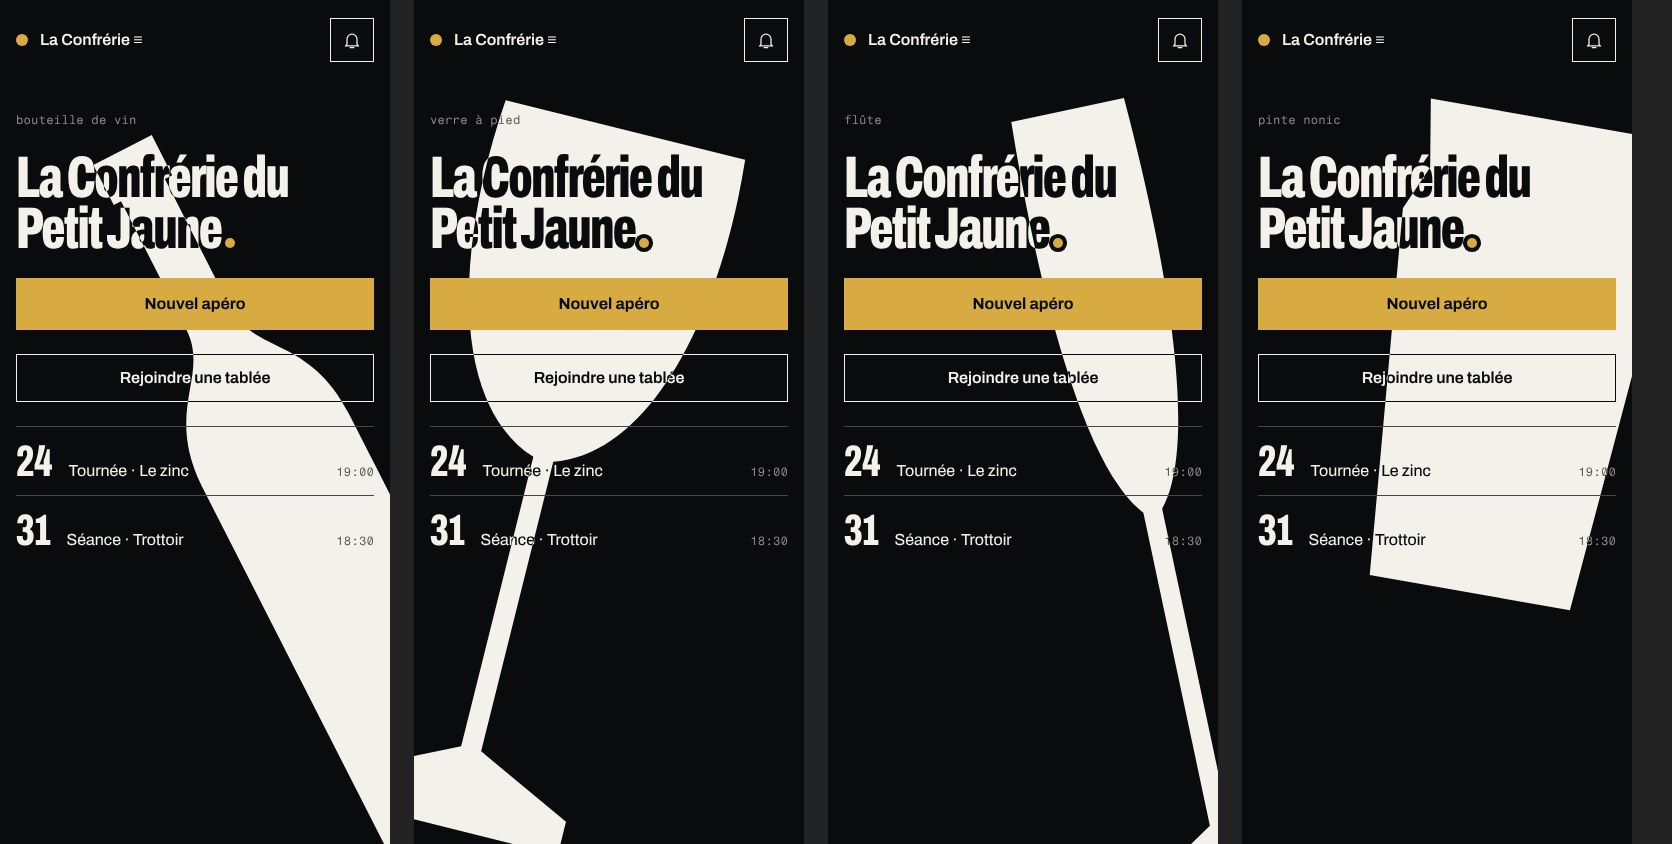
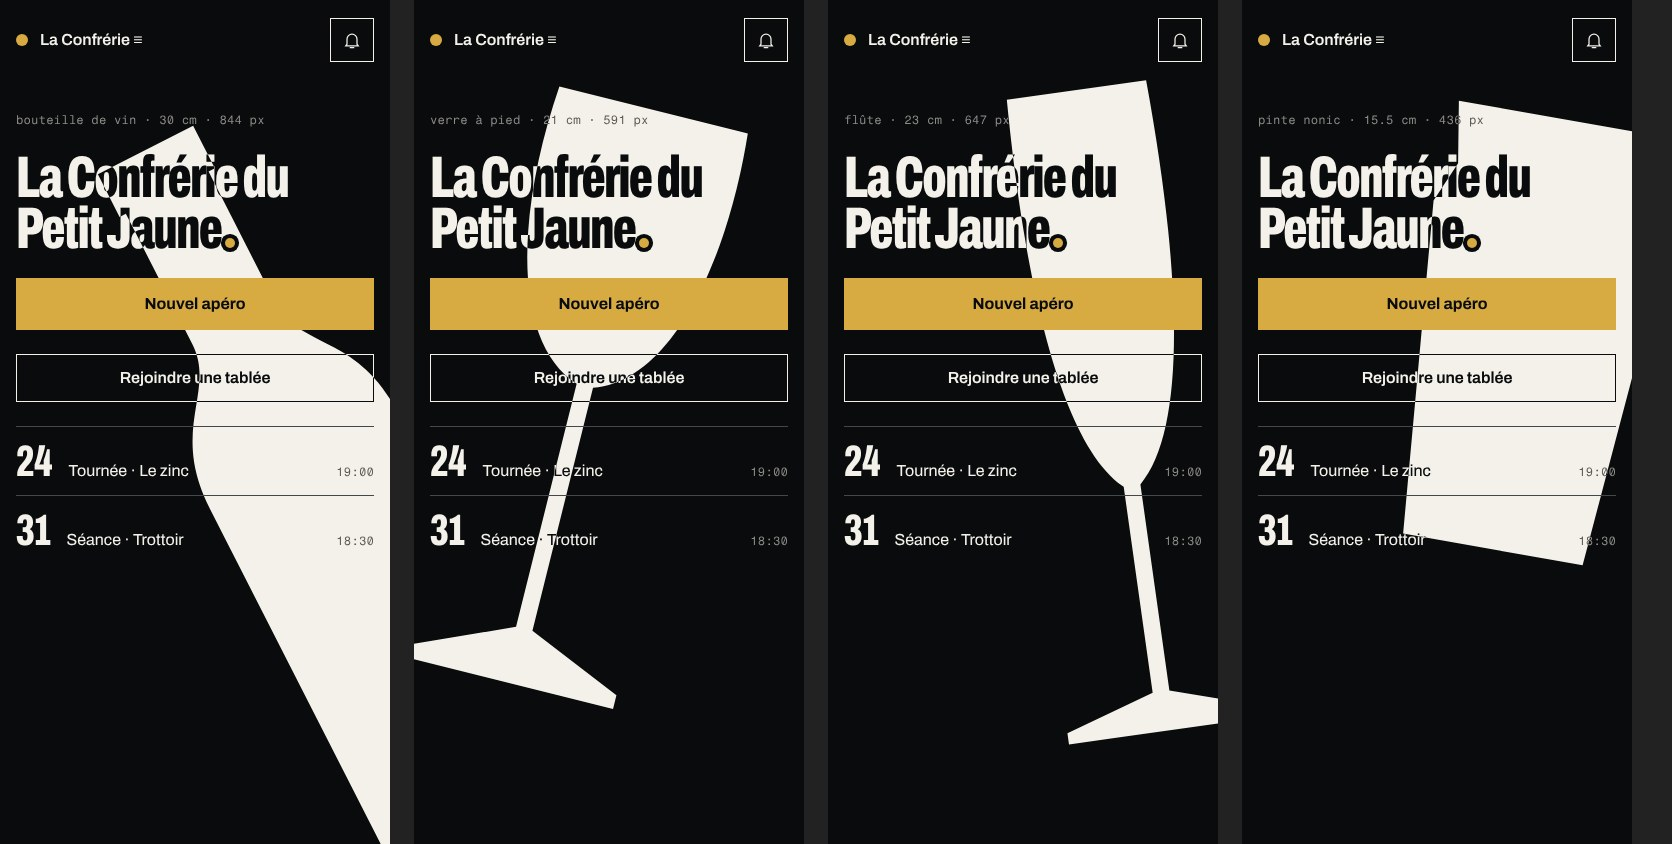
docs(uxer): Verrerie à l'échelle commune, proportions réelles
Décision du propriétaire : si la bouteille fait la taille de l'écran, tout
est à la même échelle.
- Contrat §17.5 : échelle commune (bouteille 30 cm = hauteur du premier
  écran ; verre 70 %, flûte 77 %, nonic 52 %), jamais de taille ajustée ;
  borne de surface réduite à un maximum.
- Design system §10.2 : dimensions réelles en mm, tracés en viewBox mm,
  facteur unique --verrerie-mm = 100svh / 300.
- Spécimen redessiné en mm réels et recapturé ; surfaces 14 à 24 %.

Claude-Session: https://claude.ai/code/session_01KgmnA1cUffiCGSArbcKDDk

diff --git a/docs/uxer/manifesto-void/specimens/verrerie.html b/docs/uxer/manifesto-void/specimens/verrerie.html
@@ -43,27 +43,27 @@ body{background:#222;padding:24px;display:flex;flex-direction:column;gap:24px}
 .screens{display:flex;gap:24px;flex-wrap:wrap}
 </style>
 <body>
-<div class="screens"><div class="screen"><div class="verrerie"><svg viewBox="0 0 100 400" style="height:820px;left:20px;top:150px;transform:rotate(-27deg);transform-origin:50% 0" aria-hidden="true"><path d="M10 400 L10 165 C10 122 38 118 38 92 L38 22 L34 22 L34 0 L66 0 L66 22 L62 22 L62 92 C62 118 90 122 90 165 L90 400 Z"/></svg></div>
+<div class="screens"><div class="screen"><div class="verrerie"><svg viewBox="0 0 75 300" style="height:844px;left:40px;top:150px;transform:rotate(-27deg);transform-origin:50% 0" aria-hidden="true"><path d="M0 300 L0 124 C0 92 21 88 21 69 L21 17 L18.5 17 L18.5 0 L56.5 0 L56.5 17 L54 17 L54 69 C54 88 75 92 75 124 L75 300 Z"/></svg></div>
 <div class="top"><div class="dot"></div><div class="brand inv">La Confrérie ≡</div><div class="bell inv"><svg width="20" height="20" viewBox="0 0 24 24" fill="none" stroke="currentColor" stroke-width="1.5" stroke-linecap="square"><path d="M6 17V11a6 6 0 0 1 12 0v6l1.5 2h-15z M10 21h4"/></svg></div></div>
-<div class="hero"><p class="eyebrow inv t3" style="margin:0">bouteille de vin</p>
+<div class="hero"><p class="eyebrow inv t3" style="margin:0">bouteille de vin · 30 cm · 844 px</p>
 <h1 class="h1"><span class="inv">La Confrérie du Petit Jaune</span><span class="pop"></span></h1>
 <div class="btn">Nouvel apéro</div><div class="ghost inv">Rejoindre une tablée</div></div>
 <div class="rows"><div class="row"><b class="inv">24</b><span class="inv">Tournée · Le zinc</span><span class="eyebrow inv t3" style="margin-left:auto">19:00</span></div>
-<div class="row"><b class="inv">31</b><span class="inv">Séance · Trottoir</span><span class="eyebrow inv t3" style="margin-left:auto">18:30</span></div></div></div><div class="screen"><div class="verrerie"><svg viewBox="0 0 100 210" style="height:720px;left:40px;top:130px;transform:rotate(14deg);transform-origin:50% 0" aria-hidden="true"><path d="M14 0 L86 0 C90 46 80 90 53 99 L53 186 L82 200 L82 210 L18 210 L18 200 L47 186 L47 99 C20 90 10 46 14 0 Z"/></svg></div>
+<div class="row"><b class="inv">31</b><span class="inv">Séance · Trottoir</span><span class="eyebrow inv t3" style="margin-left:auto">18:30</span></div></div></div><div class="screen"><div class="verrerie"><svg viewBox="0 0 85 210" style="height:591px;left:120px;top:110px;transform:rotate(14deg);transform-origin:50% 0" aria-hidden="true"><path d="M8 0 L77 0 C81 46 72 92 45.5 101 L45.5 190 L80 205 L80 210 L5 210 L5 205 L39.5 190 L39.5 101 C13 92 4 46 8 0 Z"/></svg></div>
 <div class="top"><div class="dot"></div><div class="brand inv">La Confrérie ≡</div><div class="bell inv"><svg width="20" height="20" viewBox="0 0 24 24" fill="none" stroke="currentColor" stroke-width="1.5" stroke-linecap="square"><path d="M6 17V11a6 6 0 0 1 12 0v6l1.5 2h-15z M10 21h4"/></svg></div></div>
-<div class="hero"><p class="eyebrow inv t3" style="margin:0">verre à pied</p>
+<div class="hero"><p class="eyebrow inv t3" style="margin:0">verre à pied · 21 cm · 591 px</p>
 <h1 class="h1"><span class="inv">La Confrérie du Petit Jaune</span><span class="pop"></span></h1>
 <div class="btn">Nouvel apéro</div><div class="ghost inv">Rejoindre une tablée</div></div>
 <div class="rows"><div class="row"><b class="inv">24</b><span class="inv">Tournée · Le zinc</span><span class="eyebrow inv t3" style="margin-left:auto">19:00</span></div>
-<div class="row"><b class="inv">31</b><span class="inv">Séance · Trottoir</span><span class="eyebrow inv t3" style="margin-left:auto">18:30</span></div></div></div><div class="screen"><div class="verrerie"><svg viewBox="0 0 56 250" style="height:800px;left:150px;top:110px;transform:rotate(-12deg);transform-origin:50% 0" aria-hidden="true"><path d="M10 0 L46 0 C49 62 45 112 31 128 L31 228 L50 240 L50 250 L6 250 L6 240 L25 228 L25 128 C11 112 7 62 10 0 Z"/></svg></div>
+<div class="row"><b class="inv">31</b><span class="inv">Séance · Trottoir</span><span class="eyebrow inv t3" style="margin-left:auto">18:30</span></div></div></div><div class="screen"><div class="verrerie"><svg viewBox="-5 0 70 230" style="height:647px;left:150px;top:90px;transform:rotate(-8deg);transform-origin:50% 0" aria-hidden="true"><path d="M5 0 L55 0 C58 70 52 125 33 142 L33 216 L65 226 L65 230 L-5 230 L-5 226 L27 216 L27 142 C8 125 2 70 5 0 Z"/></svg></div>
 <div class="top"><div class="dot"></div><div class="brand inv">La Confrérie ≡</div><div class="bell inv"><svg width="20" height="20" viewBox="0 0 24 24" fill="none" stroke="currentColor" stroke-width="1.5" stroke-linecap="square"><path d="M6 17V11a6 6 0 0 1 12 0v6l1.5 2h-15z M10 21h4"/></svg></div></div>
-<div class="hero"><p class="eyebrow inv t3" style="margin:0">flûte</p>
+<div class="hero"><p class="eyebrow inv t3" style="margin:0">flûte · 23 cm · 647 px</p>
 <h1 class="h1"><span class="inv">La Confrérie du Petit Jaune</span><span class="pop"></span></h1>
 <div class="btn">Nouvel apéro</div><div class="ghost inv">Rejoindre une tablée</div></div>
 <div class="rows"><div class="row"><b class="inv">24</b><span class="inv">Tournée · Le zinc</span><span class="eyebrow inv t3" style="margin-left:auto">19:00</span></div>
-<div class="row"><b class="inv">31</b><span class="inv">Séance · Trottoir</span><span class="eyebrow inv t3" style="margin-left:auto">18:30</span></div></div></div><div class="screen"><div class="verrerie"><svg viewBox="0 0 100 170" style="height:480px;left:170px;top:120px;transform:rotate(10deg);transform-origin:50% 0" aria-hidden="true"><path d="M6 0 L94 0 L90 24 L97 40 L86 170 L14 170 L3 40 L10 24 Z"/></svg></div>
+<div class="row"><b class="inv">31</b><span class="inv">Séance · Trottoir</span><span class="eyebrow inv t3" style="margin-left:auto">18:30</span></div></div></div><div class="screen"><div class="verrerie"><svg viewBox="0 0 90 155" style="height:436px;left:200px;top:120px;transform:rotate(10deg);transform-origin:50% 0" aria-hidden="true"><path d="M5.4 0 L84.6 0 L81 22 L87.3 36.5 L77.4 155 L12.6 155 L2.7 36.5 L9 22 Z"/></svg></div>
 <div class="top"><div class="dot"></div><div class="brand inv">La Confrérie ≡</div><div class="bell inv"><svg width="20" height="20" viewBox="0 0 24 24" fill="none" stroke="currentColor" stroke-width="1.5" stroke-linecap="square"><path d="M6 17V11a6 6 0 0 1 12 0v6l1.5 2h-15z M10 21h4"/></svg></div></div>
-<div class="hero"><p class="eyebrow inv t3" style="margin:0">pinte nonic</p>
+<div class="hero"><p class="eyebrow inv t3" style="margin:0">pinte nonic · 15.5 cm · 436 px</p>
 <h1 class="h1"><span class="inv">La Confrérie du Petit Jaune</span><span class="pop"></span></h1>
 <div class="btn">Nouvel apéro</div><div class="ghost inv">Rejoindre une tablée</div></div>
 <div class="rows"><div class="row"><b class="inv">24</b><span class="inv">Tournée · Le zinc</span><span class="eyebrow inv t3" style="margin-left:auto">19:00</span></div>

diff --git a/docs/uxer/manifesto-void/UXER_REDESIGN_CONTRACT.md b/docs/uxer/manifesto-void/UXER_REDESIGN_CONTRACT.md
@@ -321,11 +321,16 @@ une réserve `--void`, si bien que l'anneau jaune reste à 9,2 : 1 partout.
 
 - **Nombre** : **une seule silhouette par écran**, jamais deux (décision du propriétaire, 19/10/2026).
   Un seul objet garde le vide dominant et donne une seule lecture : un écran, un verre.
-- **Surface** : 12 % à 35 % du premier écran mobile (390 × 844). En dessous, l'effet ne
-  se voit pas ; au-dessus, le vide cesse de dominer.
-- **Échelle** : la silhouette mesure au moins 80 % de la hauteur du premier écran
-  (bouteille, verre à pied, flûte) et au moins 55 % pour la nonic, trapue, qui dépasserait
-  sinon la borne de surface. Elle sort d'au moins un bord. Monumentale, jamais vignette.
+- **Surface** : au plus 35 % du premier écran mobile (390 × 844), sinon le vide cesse de
+  dominer. Pas de minimum : l'échelle commune prime, et une nonic à l'échelle couvre
+  moins qu'une bouteille. Mesuré sur spécimen : 14 à 24 %.
+- **Échelle commune** (décision du propriétaire, 19/10/2026) : toute la verrerie est à la
+  **même échelle**, dans ses proportions réelles. La bouteille de vin (30 cm) fait la
+  hauteur du premier écran ; un verre à pied (21 cm) en fait donc 70 %, une flûte (23 cm)
+  77 %, une pinte nonic (15,5 cm) 52 %. Une silhouette n'est jamais agrandie ni réduite
+  pour remplir un vide ou tenir une borne : on change sa position ou son angle, jamais
+  sa taille. Le rognage par le bord de l'écran ne change pas l'échelle. Dimensions de
+  référence : design system §10.2.
 - **Angle** : de −35° à +35° (exception : bouteille couchée des erreurs). Un bord qui
   traverse une ligne de texte fait au moins 15° avec la ligne de base : un bord presque
   horizontal couperait chaque lettre en deux moitiés.
@@ -372,7 +377,7 @@ compensation reste `VISUAL_UNVERIFIED`.
 | V11 | Contraste invariant (P10) | capture avec / sans Verrerie : diff hors silhouettes = 0 ; sous silhouette, pixels pleins des glyphes = `--void` |
 | V12 | Aucune teinte inversée (P9) | recherche de pixels hors palette (bleu, violet, bleu-vert) sur toutes les captures = 0 |
 | V13 | Focus intact sur silhouette | navigation clavier sur l'accueil : anneau jaune sur réserve noire à chaque arrêt |
-| V14 | Une silhouette par écran, reconnaissance (P12) et bornes (§17.5) | captures 320, 390, 768, 1440 inspectées ; surface couverte mesurée |
+| V14 | Une silhouette par écran, échelle commune, reconnaissance (P12) et bornes (§17.5) | captures 320, 390, 768, 1440 inspectées ; surface couverte mesurée |
 | V15 | Compensation optique | mesure d'encre (écart ≤ ±3 % à densité 3, ≤ ±5 % à densité 1) puis test à choix forcé §17.7 |
 | V16 | Coût | Verrerie en SVG inline ≤ 2 ko par écran ; aucune recomposition au défilement mesurée (`Performance` : pas de *paint* répété sur les calques inversés) |
 

diff --git a/docs/uxer/manifesto-void/UXER_DESIGN_SYSTEM.md b/docs/uxer/manifesto-void/UXER_DESIGN_SYSTEM.md
@@ -278,12 +278,18 @@ Présentation pure, `aria-hidden`, sans logique métier. Props : `composition`
 (identifiant public d'un apéro ou d'une tablée). Rendu : un `<svg>` inline par silhouette,
 `fill: var(--silhouette)`, aucun contour, `shape-rendering: geometricPrecision`.
 
-| Silhouette | Dessin (géométrique : segments et arcs, sans détail) | Partie caractéristique (P12) |
-|---|---|---|
-| Bouteille de vin | corps droit, épaule en arc, col étroit, bague | col et goulot |
-| Verre à pied | coupe en arc, jambe fine, pied plat | jambe et pied |
-| Flûte | coupe haute et étroite, jambe, pied | coupe étroite |
-| Pinte nonic | fût conique, renflement sous le buvant | renflement |
+| Silhouette | Dessin (géométrique : segments et arcs, sans détail) | Dimensions réelles (h × l) | Hauteur à l'échelle | Partie caractéristique (P12) |
+|---|---|---|---|---|
+| Bouteille de vin 75 cl | corps droit, épaule en arc, col étroit, bague | 300 × 75 mm | 100 % | col et goulot |
+| Verre à pied | coupe en arc, jambe fine, pied plat | 210 × 85 mm (pied 75) | 70 % | jambe et pied |
+| Flûte | coupe haute et étroite, jambe, pied | 230 × 60 mm (pied 70) | 77 % | coupe étroite |
+| Pinte nonic | fût conique, renflement sous le buvant | 155 × 90 mm | 52 % | renflement |
+
+**Échelle unique.** Les tracés sont dessinés en millimètres réels (`viewBox` en mm) et
+rendus avec un seul facteur : `--verrerie-mm: calc(100svh / 300)` (bouteille = hauteur du
+premier écran) ; la hauteur d'une silhouette vaut `calc(<hauteur en mm> * var(--verrerie-mm))`.
+Sur bureau, la même formule s'applique à la hauteur de la fenêtre. Aucune silhouette ne
+porte de taille propre : le tirage choisit l'objet, l'angle et l'ancre, jamais la taille.
 
 Dessins originaux, tracés dans `specimens/verrerie.html` (≈ 150 octets de tracé chacun).
 

diff --git a/.uxer/runs/verrerie/validation.md b/.uxer/runs/verrerie/validation.md
@@ -16,6 +16,8 @@
 - Défaut trouvé et corrigé au rendu : point jaune du manifeste inversé en bleu quand il vit dans l'élément inversé.
 - 19/10 : spécimen refait à une silhouette par écran (bouteille, verre à pied, flûte, nonic) ; surfaces mesurées 14 à 29 % ; 0 pixel bleuté. La nonic à 700 px couvrait 61 % : ramenée à 480 px, borne d'échelle ajustée pour elle.
 
+- 19/10 : silhouettes redessinées en mm réels, une seule échelle (2,81 px/mm à 844 px) : bouteille 844, flûte 647, verre 591, nonic 436 px ; surfaces 14 à 24 % ; 0 pixel bleuté.
+
 ## Vérifications restantes
 
 - Test à choix forcé de la compensation (contrat §17.7), humain.

diff --git a/.uxer/runs/verrerie/decisions.md b/.uxer/runs/verrerie/decisions.md
@@ -10,3 +10,4 @@
 | 2026-10-18 | Verrerie absente des écrans de tâche | Fréquence d'usage, décision UXER 20 | oui, écran par écran |
 | 2026-10-18 | Compensation optique par la graisse (+30), contour 0,05 px pour la mono et les bascules d'état | Taille et mise en page inchangées | oui, valeurs à calibrer |
 | 2026-10-19 | Une seule silhouette par écran | Demande du propriétaire : un objet, une lecture, le vide reste dominant | oui, sur demande du propriétaire |
+| 2026-10-19 | Échelle commune en proportions réelles ; bouteille = hauteur de l'écran | Demande du propriétaire : tout à l'échelle | oui, sur demande du propriétaire |
